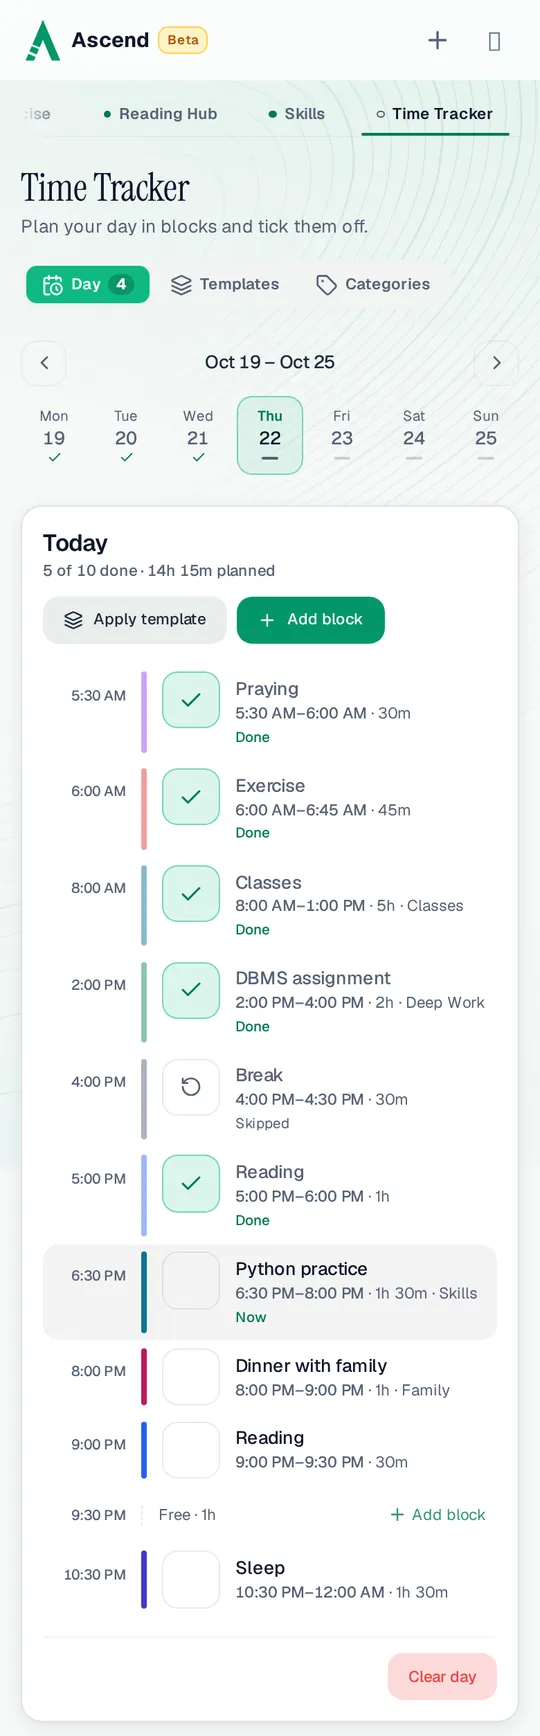
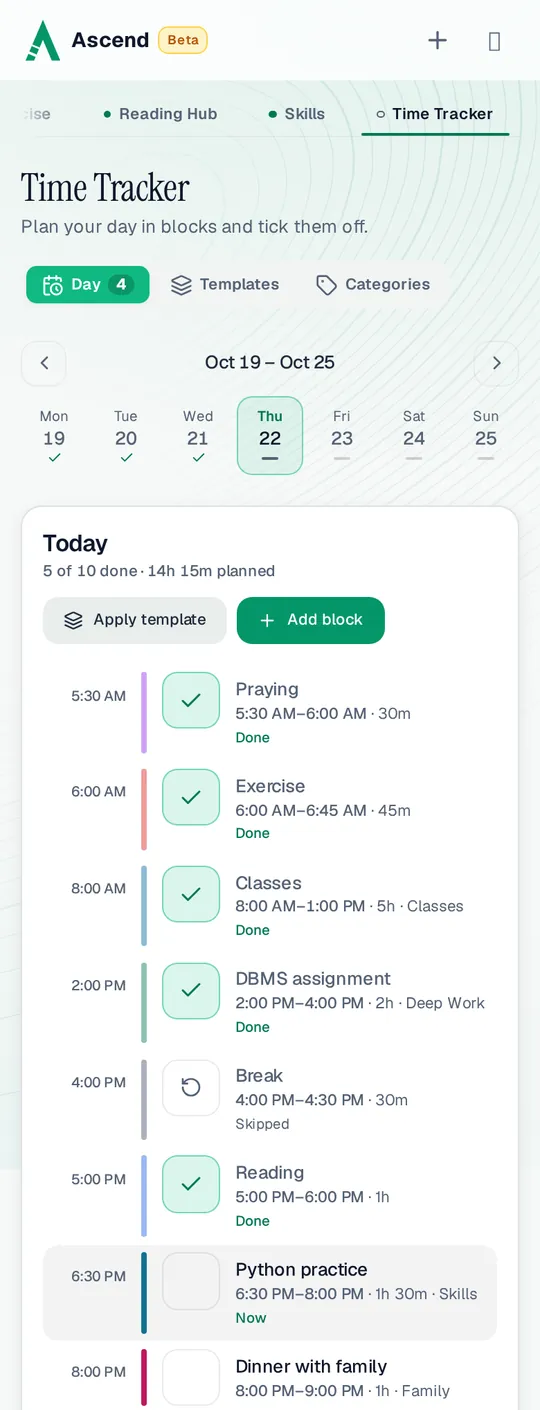
Brain lessons page: shorter Time Tracker phone shot (ends after the next block)

diff --git a/src/marketing/features/pages/brainLessons.tsx b/src/marketing/features/pages/brainLessons.tsx
@@ -150,8 +150,8 @@ export const brainLessons: FeatureContent = {
             <Screenshot
               name="schedule-day-phone"
               width={540}
-              height={1736}
-              alt="Time Tracker on a phone, the same day: Praying, Exercise, Classes, DBMS assignment and Reading done, Break skipped, Python practice 6:30 PM to 8:00 PM marked Now, then Dinner with family, Reading and Sleep still to come"
+              height={1410}
+              alt="Time Tracker on a phone, the same day: Praying, Exercise, Classes, DBMS assignment and Reading done, Break skipped, Python practice 6:30 PM to 8:00 PM marked Now, and Dinner with family next"
             />
             <figcaption className="mt-3 text-center text-sm text-content-muted">The day it follows, from Time Tracker.</figcaption>
           </figure>
